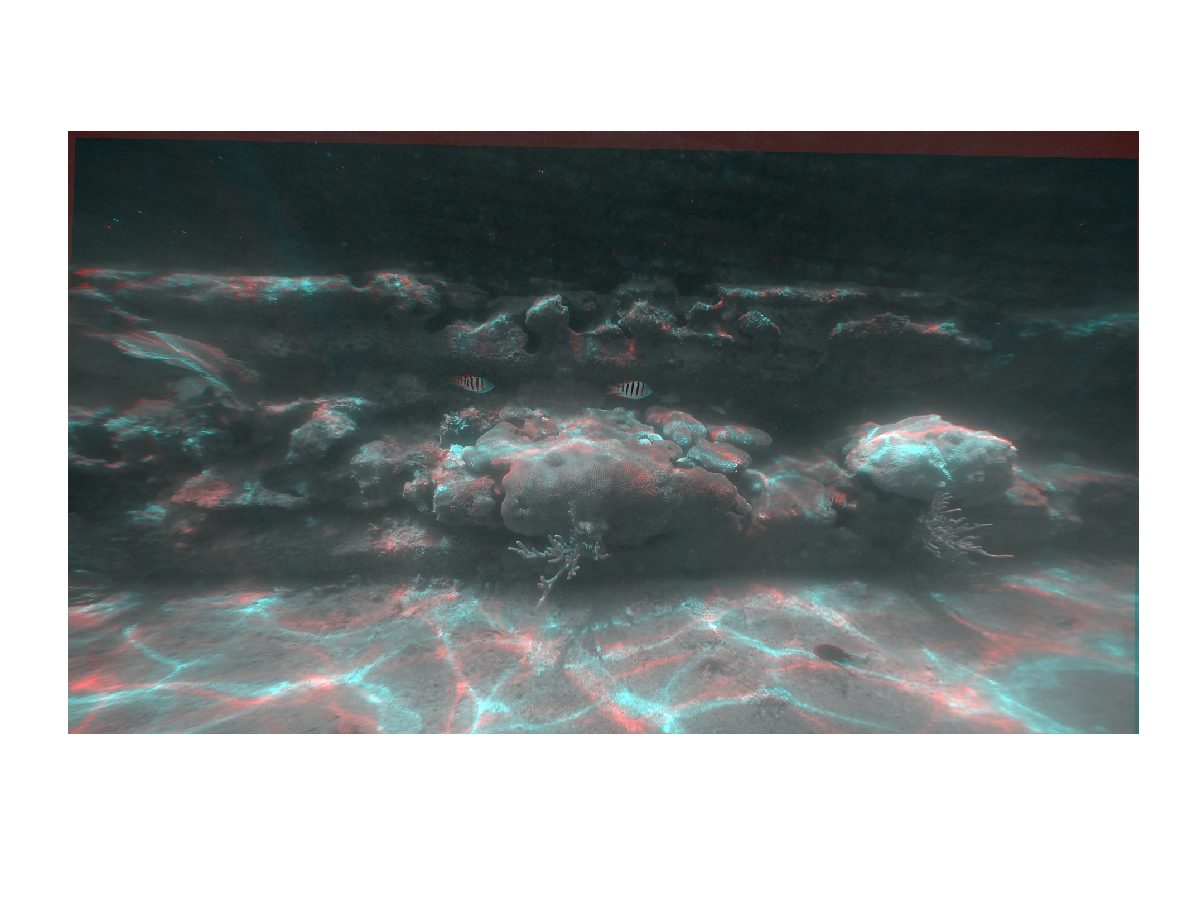
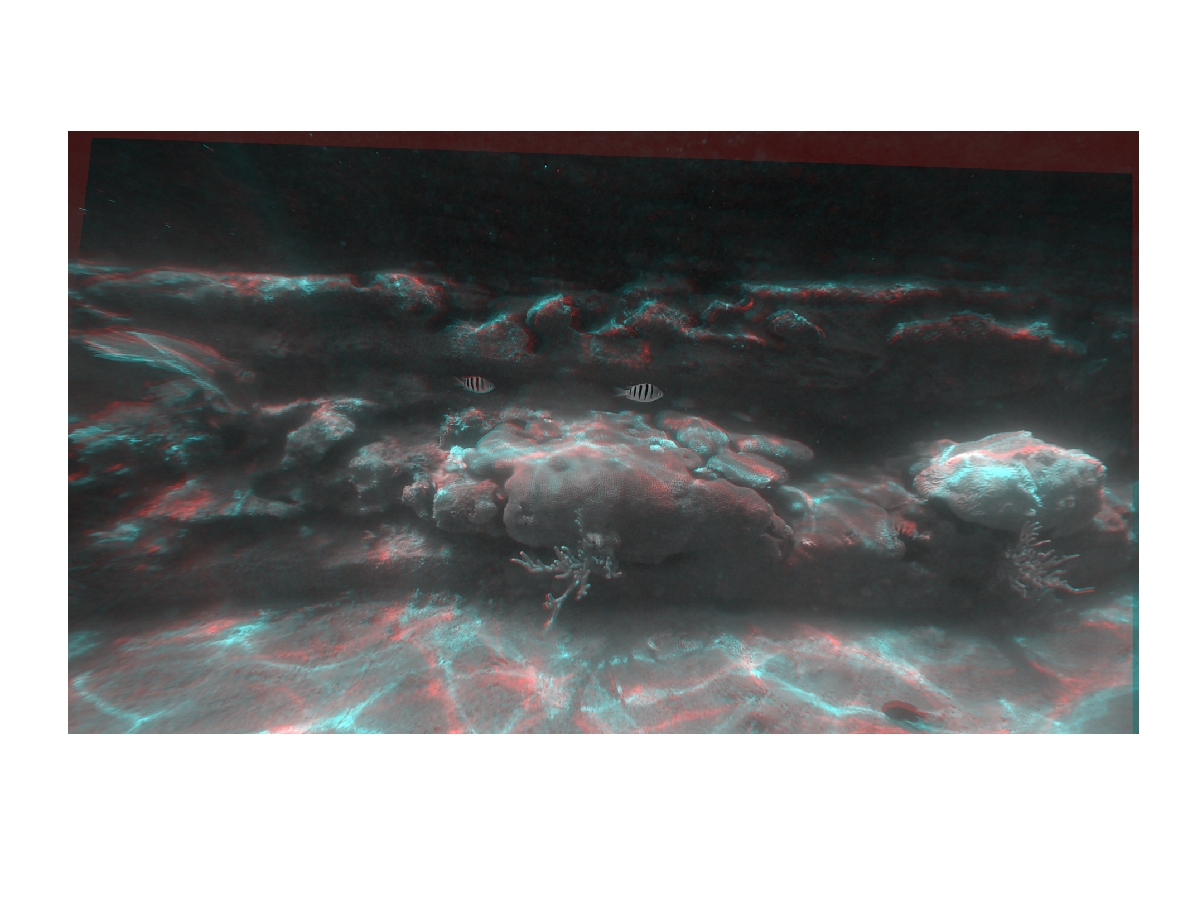
Compare stabalization using FAST and SURF keypoints

Changed region(s): [[0.0308, 0.1556, 0.9558, 0.84], [0.2467, 0.1556, 0.9558, 0.3111]]

diff --git a/final/compareKeypointMethod_stabalization.m b/final/compareKeypointMethod_stabalization.m
@@ -1,0 +1,55 @@
+% ECE 6258 Project
+% Klaus Okkelberg and Mengmeng Du
+%
+% Compare effect of keypoint method on stabalization
+
+clear
+close all
+
+%% Read current and previous frame
+
+filename = '../videos/GOPR0059.MP4';
+vidObj = VideoReader(filename);
+
+% use 3rd frame as current
+idx = 3;
+
+%% Stabalize using SURF keypoints and descriptors
+% get current and previous frames
+frame = fetchFrameColor(vidObj,idx);
+frameGray_SURF = rgb2gray(frame);
+prevFrame = fetchFrameColor(vidObj,idx-1);
+% stabalize background (previous frame) based on frame
+prevFrame_aug = cat(3,rgb2gray(prevFrame),prevFrame);
+prevFrame_aug = stabalize(prevFrame_aug,frameGray_SURF,'SURF');
+prevFrame_SURF = prevFrame_aug(:,:,1);
+
+%% Stabalize using FAST keypoints and SURF descriptors
+% get current and previous frames
+frame = fetchFrameColor(vidObj,idx);
+frameGray_FAST = rgb2gray(frame);
+prevFrame = fetchFrameColor(vidObj,idx-1);
+% stabalize background (previous frame) based on frame
+prevFrame_aug = cat(3,rgb2gray(prevFrame),prevFrame);
+prevFrame_aug = stabalize(prevFrame_aug,frameGray_FAST,'FAST');
+prevFrame_FAST = prevFrame_aug(:,:,1);
+
+%% Show comparisons of stabalization using different keypoint methods
+% record norm error to text file
+filename2 = 'images/keypointMethodErrors.txt';
+fileID = fopen(filename2,'w');
+% no lens correction
+figure(1)
+imshowpair(prevFrame_SURF,frameGray_SURF,'ColorChannels','red-cyan')
+saveas(gcf,'images/stabalization_noLensCorrection.png')
+fprintf(fileID,'Norm error between frames, SURF keypoints =\n\t%f\n', ...
+    norm(prevFrame_SURF-frameGray_SURF,'fro'));
+% lens correction
+figure(2)
+imshowpair(prevFrame_FAST,frameGray_FAST,'ColorChannels','red-cyan')
+saveas(gcf,'images/stabalization_lensCorrection.png')
+fprintf(fileID,'Norm error between frames, FAST keypoints =\n\t%f\n', ...
+    norm(prevFrame_FAST-frameGray_FAST,'fro'));
+% display norm errors
+fclose(fileID);
+type(filename2)

diff --git a/final/stabalize.m b/final/stabalize.m
@@ -2,9 +2,14 @@
 % Klaus Okkelberg and Mengmeng Du
 
 function [oldFrame_stabalized,ptsOld,ptsCur,transOld] = ...
-    stabalize(oldFrame_aug,curFrame_aug,varargin)
+    stabalize(oldFrame_aug,curFrame_aug,keypointMethod,varargin)
 % given current and and old frames, returns old frame that has been
 % transformed so its background matches that of the current
+
+% input parsing
+if ~exist('keypointMethod','var') || isempty(keypointMethod)
+    keypointMethod = 'FAST';
+end
 
 % remove augmentation from input frames
 oldFrame = oldFrame_aug(:,:,1);
@@ -27,7 +32,7 @@ end
 oldFrame = im2uint8(oldFrame);
 curFrame = im2uint8(curFrame);
 
-[ptsOld,ptsCur] = findMatch_ModifiedSURF(oldFrame,curFrame);
+[ptsOld,ptsCur] = findMatch_ModifiedSURF(oldFrame,curFrame,keypointMethod);
 
 tform = estimateGeometricTransform(ptsOld,ptsCur,'projective');
 % skip stabalization if transform matrix is singular

diff --git a/final/findMatch_ModifiedSURF.m b/final/findMatch_ModifiedSURF.m
@@ -25,9 +25,12 @@ if strcmpi(keypointMethod,'FAST')
 elseif strcmpi(keypointMethod,'SURF')
     numOctaves = 4;
     numScales = 6;
+    thresh = 500;
     matchMethod = 'NearestNeighborRatio';
-    pts1 = detectSURFFeatures(frame1.*mask1,'NumOctaves',numOctaves,'NumScaleLevels',numScales);
-    pts2 = detectSURFFeatures(frame2.*mask2,'NumOctaves',numOctaves,'NumScaleLevels',numScales);
+    pts1 = detectSURFFeatures(frame1.*mask1,'NumOctaves',numOctaves,...
+        'NumScaleLevels',numScales,'MetricThreshold',thresh);
+    pts2 = detectSURFFeatures(frame2.*mask2,'NumOctaves',numOctaves,...
+        'NumScaleLevels',numScales,'MetricThreshold',thresh);
 else
     error('Unknown method')
 end
